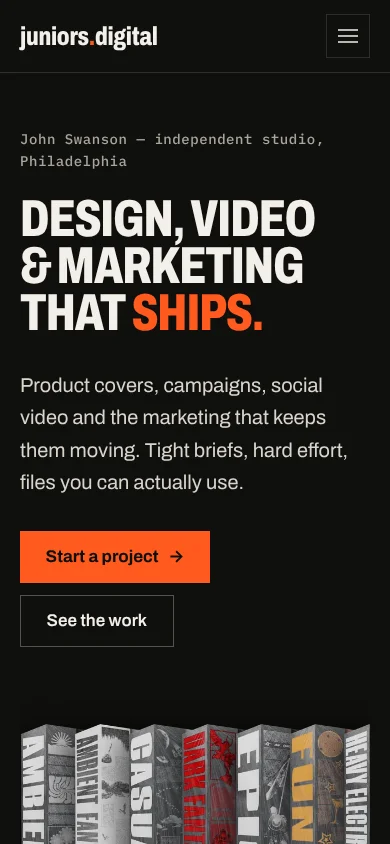
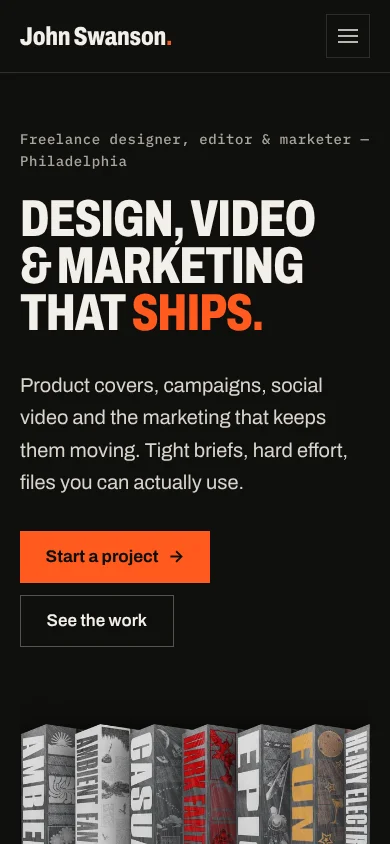
Rebrand to John Swanson with a jrs. mark
- Wordmark is now "John Swanson." with the signal dot; matches
  johnswanson.co
- New Monogram component and favicon: "jrs." (initials), drawn from
  Archivo outlines so it renders without the web font
- Titles, metadata, nav/footer labels, hero kicker and byline drop
  juniors.digital
- About page tells the jrs. story; the case study explains the naming
  decision and shows the name, mark and favicon
- Refreshed after screenshots and the case-study thumbnail

Claude-Session: https://claude.ai/code/session_017LpsLzpYDFqWKJHTxx4a7w

diff --git a/app/brand/page.tsx b/app/brand/page.tsx
@@ -1,12 +1,12 @@
 import type { Metadata } from "next";
 import Image from "next/image";
 import Link from "next/link";
-import { Wordmark } from "@/components/Wordmark";
+import { Monogram, Wordmark } from "@/components/Wordmark";
 import { SITE } from "@/lib/site";
 
 export const metadata: Metadata = {
   title: "Brand system — case study",
-  description: `How ${SITE.name} rebuilt his own brand as a system: wordmark, color, type and components, applied across ${SITE.brand}.`,
+  description: `How ${SITE.name} rebuilt his own brand as a system: wordmark, color, type and components, applied across his portfolio.`,
 };
 
 const PROBLEMS = [
@@ -104,7 +104,7 @@ const TYPE = [
 ];
 
 const DELIVERABLES = [
-  "Wordmark and favicon",
+  "Wordmark, jrs. mark and favicon",
   "Color tokens with contrast ratios",
   "Type scale",
   "Buttons, filters, cards and forms",
@@ -125,7 +125,7 @@ export default function BrandCaseStudyPage() {
           </h1>
           <div className="mt-10 grid gap-10 lg:grid-cols-[minmax(0,1.4fr)_minmax(0,1fr)] lg:gap-16">
             <p className="max-w-[46ch] text-xl leading-relaxed text-soft sm:text-[1.375rem]">
-              This is the brand system I use for my own studio. I rebuilt it
+              This is the brand system I use for my own work. I rebuilt it
               from a site that looked busy and read badly into a small kit — one
               wordmark, six colors, one type family and a handful of
               components — that every page, file and post is built from.
@@ -133,7 +133,7 @@ export default function BrandCaseStudyPage() {
             <dl className="grid grid-cols-2 gap-x-8 gap-y-6 border-t border-line pt-6 text-[0.9375rem]">
               <div>
                 <dt className="kicker text-stone">Client</dt>
-                <dd className="mt-1.5">My own studio</dd>
+                <dd className="mt-1.5">Self-initiated</dd>
               </div>
               <div>
                 <dt className="kicker text-stone">Year</dt>
@@ -251,26 +251,30 @@ export default function BrandCaseStudyPage() {
             Small enough to remember.
           </h2>
 
-          <h3 className="mt-16 text-2xl font-bold tracking-tight">Wordmark &amp; mark</h3>
+          <h3 className="mt-16 text-2xl font-bold tracking-tight">Name &amp; mark</h3>
           <div className="mt-6 grid gap-4 md:grid-cols-[2fr_2fr_1fr]">
             <div className="grid min-h-56 place-items-center bg-ink px-6 text-paper">
-              <Wordmark className="text-[clamp(2.5rem,5vw,4.5rem)]" />
+              <Wordmark className="text-[clamp(2.25rem,4.2vw,4rem)]" />
             </div>
             <div className="grid min-h-56 place-items-center border border-rule bg-card px-6">
-              <Wordmark className="text-[clamp(2.5rem,5vw,4.5rem)]" />
+              <Monogram className="text-[clamp(3.5rem,7vw,6.5rem)]" />
             </div>
             <div className="flex min-h-56 items-center justify-center gap-6 border border-rule bg-card">
               {/* eslint-disable-next-line @next/next/no-img-element */}
-              <img src="/icon.svg" alt="Favicon mark" width={96} height={96} />
+              <img src="/icon.svg" alt="Favicon: jrs. in ink on signal orange" width={96} height={96} />
               {/* eslint-disable-next-line @next/next/no-img-element */}
               <img src="/icon.svg" alt="" width={32} height={32} />
             </div>
           </div>
           <p className="mt-5 max-w-[70ch] text-slate">
-            Lowercase Archivo Condensed. The orange dot is the brand&apos;s only
-            device: it shows up in the wordmark, the favicon, active navigation
-            and numbered sections, so the brand is recognizable even where the
-            name isn&apos;t.
+            The wordmark is my name, set in Archivo Condensed and closed with
+            the orange dot. It matches johnswanson.co, and it&apos;s what
+            clients search for and pass on. My initials, jrs., are the mark:
+            the favicon, profile images and the signature on files. I tried a
+            studio name built from those initials first and dropped it — people
+            hire a person, and a name that looks like a web address has to be
+            one you own. The dot carries across all of it, plus active
+            navigation and numbered sections.
           </p>
 
           <h3 className="mt-16 text-2xl font-bold tracking-tight">Color</h3>

diff --git a/app/about/page.tsx b/app/about/page.tsx
@@ -1,12 +1,13 @@
 import type { Metadata } from "next";
 import Image from "next/image";
 import Link from "next/link";
+import { Monogram } from "@/components/Wordmark";
 import { OFFERINGS } from "@/lib/offerings";
 import { SITE } from "@/lib/site";
 
 export const metadata: Metadata = {
   title: "About",
-  description: `About ${SITE.name} — designer, editor, and marketer in ${SITE.location}, and the studio behind ${SITE.brand}.`,
+  description: `About ${SITE.name} — designer, editor, and marketer in ${SITE.location}.`,
 };
 
 const tools = [
@@ -27,8 +28,8 @@ export default function AboutPage() {
             <p className="kicker text-slate">About / {SITE.location}</p>
             <h1 className="display display-xl mt-4">{SITE.name}.</h1>
             <p className="mt-10 max-w-[32ch] text-[1.625rem] leading-snug font-medium">
-              A freelance designer, editor and marketer — and the whole of{" "}
-              {SITE.brand}.
+              A freelance designer, editor and marketer — and the only person
+              you&apos;ll work with, from brief to final files.
             </p>
             <div className="mt-8 max-w-[60ch] space-y-5 text-lg leading-relaxed text-body sm:text-[1.1875rem]">
               <p>
@@ -46,6 +47,12 @@ export default function AboutPage() {
                 social and advertising video. I build and run Google Business
                 pages and social accounts for people who need that handled
                 without a twelve-person team.
+              </p>
+              <p>
+                You&apos;ll see{" "}
+                <Monogram className="text-[1.1em] text-ink" /> on my files and
+                profiles. It&apos;s my initials, and it&apos;s how I sign the
+                work.
               </p>
             </div>
           </div>

diff --git a/lib/site.ts b/lib/site.ts
@@ -1,12 +1,14 @@
 export const SITE = {
-  brand: "juniors.digital",
+  brand: "John Swanson",
+  /** The mark: initials, used for the favicon and small spaces. */
+  mark: "jrs.",
   name: "John Swanson",
-  byline: "The independent studio of John Swanson.",
+  byline: "Freelance design, video and marketing.",
   email: "johnreidswanson@gmail.com",
   location: "Philadelphia",
   url: "https://www.johnswanson.co",
   description:
-    "juniors.digital is the independent studio of John Swanson — graphic design, video editing, and marketing in Philadelphia.",
+    "John Swanson — freelance graphic design, video editing, and marketing in Philadelphia.",
   fromEmail: "John Swanson <hello@juniors.digital>",
 } as const;
 

diff --git a/components/Wordmark.tsx b/components/Wordmark.tsx
@@ -1,7 +1,17 @@
+/** The logo: John Swanson, closed with the signal dot. */
 export function Wordmark({ className = "" }: { className?: string }) {
   return (
-    <span className={`wordmark ${className}`}>
-      juniors<span className="text-signal">.</span>digital
+    <span className={`wordmark whitespace-nowrap ${className}`}>
+      John Swanson<span className="text-signal">.</span>
+    </span>
+  );
+}
+
+/** The mark: jrs. — John's initials. Used for the favicon, avatars and small spaces. */
+export function Monogram({ className = "" }: { className?: string }) {
+  return (
+    <span className={`wordmark ${className}`} aria-label="jrs.">
+      jrs<span className="text-signal">.</span>
     </span>
   );
 }

diff --git a/components/Footer.tsx b/components/Footer.tsx
@@ -8,13 +8,13 @@ export function Footer() {
       <div className="wrap pt-18 pb-12">
         <div className="grid gap-12 md:grid-cols-[2fr_1fr_1fr]">
           <div>
-            <Link href="/" className="text-[2.5rem]" aria-label={`${SITE.brand} — home`}>
+            <Link href="/" className="text-[2.5rem]" aria-label={`${SITE.name} — home`}>
               <Wordmark />
             </Link>
             <p className="mt-4 max-w-sm text-stone">
               {SITE.byline}
               <br />
-              Design, video and marketing — {SITE.location}.
+              Based in {SITE.location}, working everywhere.
             </p>
           </div>
           <nav aria-label="Footer">

diff --git a/app/page.tsx b/app/page.tsx
@@ -15,7 +15,7 @@ export default function HomePage() {
           <div className="grid items-end gap-8 lg:grid-cols-[minmax(0,1.7fr)_minmax(0,1fr)] lg:gap-14">
             <div>
               <p className="kicker mb-6 text-stone">
-                {SITE.name} — independent studio, {SITE.location}
+                Freelance designer, editor &amp; marketer — {SITE.location}
               </p>
               <h1 id="hero-title" className="display display-xl text-[clamp(3.25rem,6.8vw,6.75rem)]">
                 Design, video &amp; marketing that{" "}

diff --git a/app/layout.tsx b/app/layout.tsx
@@ -25,8 +25,8 @@ const plexMono = IBM_Plex_Mono({
 export const metadata: Metadata = {
   metadataBase: new URL(SITE.url),
   title: {
-    default: `${SITE.brand} — ${SITE.name}: design, video & marketing`,
-    template: `%s — ${SITE.brand}`,
+    default: `${SITE.name} — Design, video & marketing in ${SITE.location}`,
+    template: `%s — ${SITE.name}`,
   },
   description: SITE.description,
   icons: {

diff --git a/lib/projects.ts b/lib/projects.ts
@@ -143,7 +143,7 @@ export const PROJECTS: Project[] = [
     featured: true,
     href: "/brand",
     categories: ["design"],
-    client: "Own studio",
+    client: "Self-initiated",
     title: "Brand system — case study",
     description:
       "A wordmark, six color tokens, one type family and a set of components, rebuilt from a busy site into one system that every page is made from.",

diff --git a/app/work/page.tsx b/app/work/page.tsx
@@ -6,7 +6,7 @@ import { PROJECTS } from "@/lib/projects";
 export const metadata: Metadata = {
   title: "Work",
   description:
-    "Selected graphic design, video editing, and marketing by John Swanson at juniors.digital.",
+    "Selected graphic design, video editing, and marketing by John Swanson.",
 };
 
 export default function WorkPage() {

diff --git a/app/contact/page.tsx b/app/contact/page.tsx
@@ -4,7 +4,7 @@ import { SITE } from "@/lib/site";
 
 export const metadata: Metadata = {
   title: "Contact",
-  description: `Start a project with ${SITE.name} at ${SITE.brand}. Design, video, and marketing.`,
+  description: `Start a project with ${SITE.name}. Design, video, and marketing.`,
 };
 
 const steps = [

diff --git a/components/Nav.tsx b/components/Nav.tsx
@@ -42,7 +42,7 @@ export function Nav() {
             href="/"
             onClick={() => setOpen(false)}
             className="text-[1.625rem]"
-            aria-label={`${SITE.brand} — home`}
+            aria-label={`${SITE.name} — home`}
           >
             <Wordmark />
           </Link>

diff --git a/app/globals.css b/app/globals.css
@@ -1,7 +1,7 @@
 @import "tailwindcss";
 
 /*
- * juniors.digital — brand tokens
+ * John Swanson — brand tokens
  * Two grounds (ink for showing, paper for reading), one accent (signal).
  * Every text pairing below passes WCAG AA (4.5:1) at body sizes.
  */
